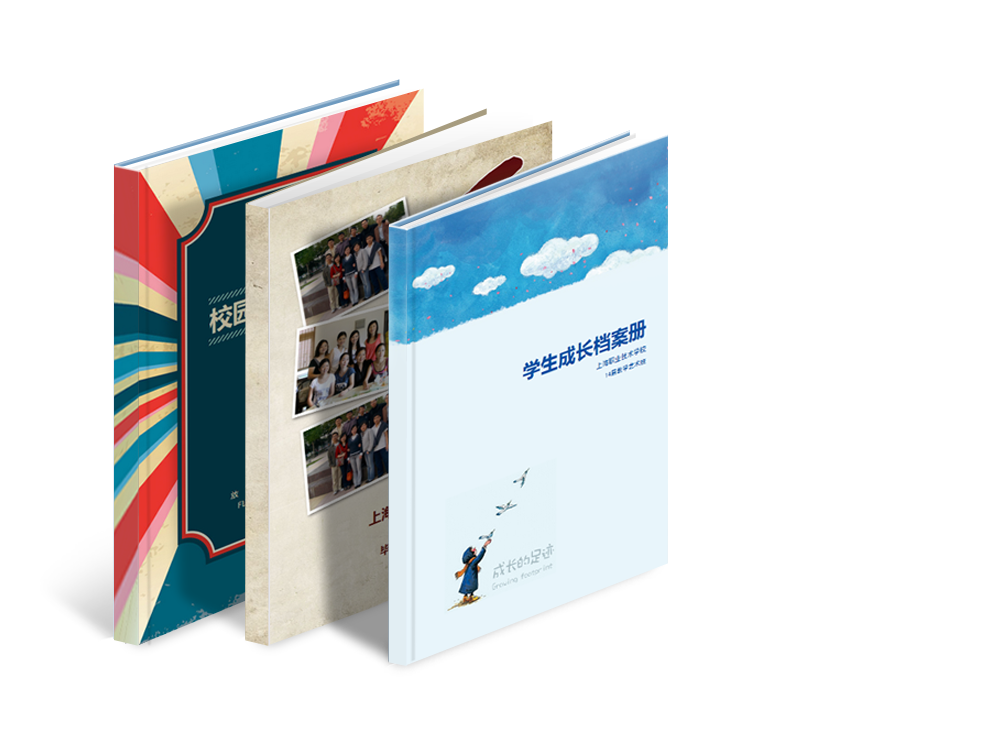
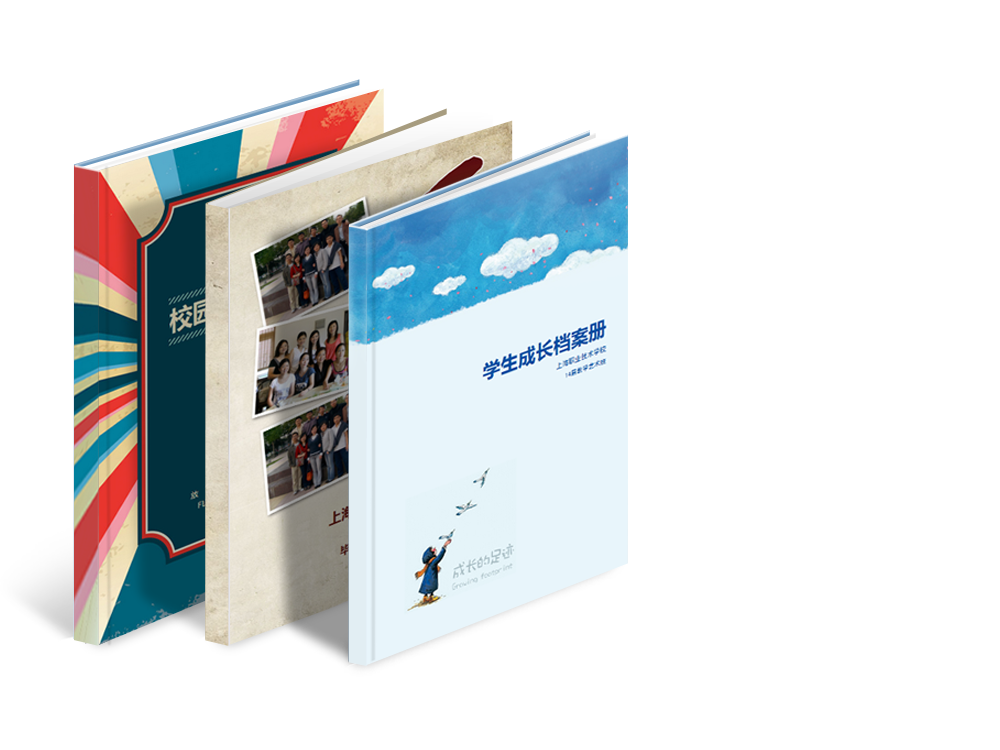
temp

diff --git a/src/css/index313.css b/src/css/index313.css
@@ -1,31 +1,39 @@
 @charset 'utf-8';
-.index_banner_wrapper {
+.index_banner_container{
 	width: 100%;
+}
+.index_banner_wrapper {
+	margin: 0 auto;
+	width: 1200px;
+	height: 100%;
 	position: relative;
 }
-.index_banner_wrapper .photobook {
-	width: 100%;
+.index_banner_container .photobook {
 	height: 860px;
 	background-image: url(../img/index/313/index_banner_photobook_bg_00000.jpg);
 	background-position: center;
 }
-.index_banner_wrapper .iabook {
+.index_banner_container .iabook {
 	width: 100%;
 	height: 860px;
 	background-image: url(../img/index/313/index_banner_iabook_bg_00000.jpg);
 	background-position: center;
 }
-.index_banner_wrapper .photobook .showcase {
+.index_banner_container .photobook .showcase {
 	width: 730px;
 	height: 520px;
+	background: url(../img/index/313/index_photobook_sample_1_00000.png);
+	
 }
-.index_banner_wrapper .iabook .showcase {
+.index_banner_container .iabook .showcase {
 	width: 1000px;
 	height: 750px;
+	background: url(../img/index/313/index_iabook_sample_1_00000.png);
 	position: absolute;
+	left: 0;
 	bottom: 0;
 }
-.index_banner_wrapper .photobook .showcase {
+.index_banner_container .photobook .showcase {
 	float: right;
 	margin: 110px 0 0 0;
 }
@@ -43,12 +51,13 @@
 	font-size: 0;
 	position: absolute;
 	top: 715px;
+
 }
-.index_banner_wrapper .photobook .index_productbtn_wrapper .product_btn{
+.index_banner_container .photobook .index_productbtn_wrapper .product_btn{
 	left: 480px;
 }
-.index_banner_wrapper .iabook .index_productbtn_wrapper .product_btn{
-	left: 760px;
+.index_banner_container .iabook .index_productbtn_wrapper .product_btn{
+	right: 180px;
 }
 .index_productbtn_wrapper .product_btn:hover{
 	background-color: #2D94CD;
@@ -361,13 +370,19 @@
 }
 .index_activity_wrapper .activtylist>ul>li{
 	display: inline-block;
-	margin: 8px;
+	margin: 7px;
 	width: 280px;
+	height: 400px;
 	text-align: left;
 	vertical-align: top;
+	border: 1px solid transparent;
+	transition: border 0.3s;
+}
+.index_activity_wrapper .activtylist>ul>li:hover{
+	border: 1px solid #8cc04e;
 }
 .index_activity_wrapper .activtylist .status{
-	margin: 20px 0;
+	margin: 20px 5px;
 }
 .index_activity_wrapper .activtylist .status li{
 	display: inline-block;
@@ -382,10 +397,12 @@
 	vertical-align: middle;
 }
 .index_activity_wrapper .activtylist h6{
-	margin: 10px 0;
+	margin: 10px 5px;
 	font-size: 20px;
 }
 .index_activity_wrapper .activtylist p{
+	margin: 0 auto;
+	width: 270px;
 	font-size: 14px;
 	color: #666;
 }

diff --git a/src/_index3.13.html b/src/_index3.13.html
@@ -81,25 +81,29 @@
 	</div>
 	<!--主要内容-->
 	<div class='main_container'>
-		<div class='index_banner_wrapper'>
+		<div class='index_banner_container'>
 			<div class='photobook'>
-				<div class='showcase'></div>
-				<div class='index_productbtn_wrapper'>
-					<a class='product_btn transition_btn' href="javascript:;">
-						<label>立即制作</label>
-						<span>￥38<i>起</i></span>
-					</a>
+				<div class='index_banner_wrapper'>
+					<div class='showcase'></div>
+					<div class='index_productbtn_wrapper'>
+						<a class='product_btn transition_btn' href="javascript:;">
+							<label>立即制作</label>
+							<span>￥38<i>起</i></span>
+						</a>
+					</div>
 				</div>
 			</div>
 		</div>
-		<div class='index_banner_wrapper'>
+		<div class='index_banner_container'>
 			<div class='iabook'>
-				<div class='showcase'></div>
-				<div class='index_productbtn_wrapper'>
-					<a class='product_btn transition_btn' href="javascript:;">
-						<label>立即制作</label>
-						<span>￥38<i>起</i></span>
-					</a>
+				<div class='index_banner_wrapper'>
+					<div class='showcase'></div>
+					<div class='index_productbtn_wrapper'>
+						<a class='product_btn transition_btn' href="javascript:;">
+							<label>立即制作</label>
+							<span>￥38<i>起</i></span>
+						</a>
+					</div>
 				</div>
 			</div>
 		</div>
@@ -1130,9 +1134,9 @@
 		//CloseYbNotice();
 	});
 
-	function imageTransition(){
+	function imageTransition() {
 		$.imageTransition({
-			container: '.index_banner_wrapper .photobook .showcase',
+			container: '.index_banner_container .photobook .showcase',
 			mintime: 5,
 			maxtime: 15,
 			transittime: 5,
@@ -1143,7 +1147,7 @@
 			]
 		});
 		$.imageTransition({
-			container: '.index_banner_wrapper .iabook .showcase',
+			container: '.index_banner_container .iabook .showcase',
 			mintime: 5,
 			maxtime: 15,
 			transittime: 5,
